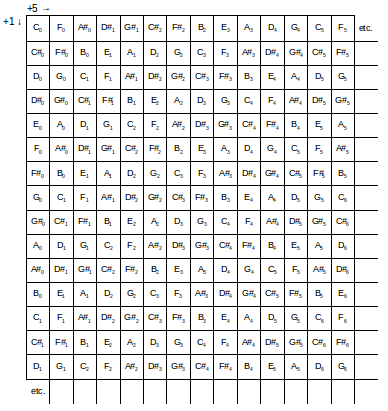
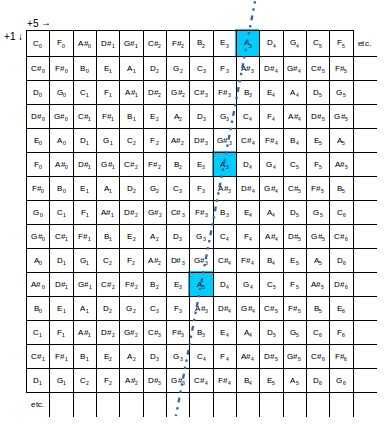
diag cycles intro musaic

diff --git a/pages/musaic/musaic_repr_dim2.md b/pages/musaic/musaic_repr_dim2.md
@@ -33,23 +33,23 @@ A angular sector forms a two-dimensional array (DIS), Below, we choose as origin
 
 
 {% include image.html file='musaic/grilleCreuseVide.png'  alt='matrix without labels (1,5)' caption='matrix DIS(1,5) without labels ' %}
-{% include image.html file='musaic/grilleEmptyETC.png'  alt='matrix (1,5)' caption='matrix (1,5) as pavement' %}
+{% include image.html file='musaic/grilleEmptyETC.png'  alt='DIS(1,5)' caption='DIS(1,5) as pavement<br/>(with unison axe on A3)' %}
 
 This space can be considered as a *musical keyboard*. Like keyboard of piano, let us emphasize the notes of diatonic scale.
 
-{% include image.html file='musaic/grilleDiatonicETC.png' alt='C-diatonic matrix (1,5)' caption='C-diatonic matrix DIS(1,5)' %}
+{% include image.html file='musaic/grilleDiatonicETC.png' alt='C-diatonic DIS(1,5)' caption='C-diatonic DIS(1,5)<br/>{C, D, E, F, G, A, B}' %}
 
 ## Diatonic shape in DIS(1,5)
 
 Let's take a look at some others diatonic tonalities :
 
-{% include image.html file='musaic/cdiatonic.png' alt='C-diatonic matrix (1,5)' caption='C-diatonic DIS(1,5)' %}
+{% include image.html file='musaic/cdiatonic.png' alt='C-diatonic DIS(1,5)' caption='C-diatonic DIS(1,5)<br/>{C, D, E, F, G, A, B}' %}
 
-{% include image.html file='musaic/csharpdiatonic.png' alt='C#-diatonic matrix (1,5)' caption='C#-diatonic DIS(1,5)' %}
+{% include image.html file='musaic/csharpdiatonic.png' alt='C#-diatonic DIS(1,5)' caption='C#-diatonic DIS(1,5)<br/>{C#, D#, E#, F#, G#, A#, B#}' %}
 
-{% include image.html file='musaic/fdiatonic.png' alt='F-diatonic matrix (1,5)' caption='F-diatonic DIS(1,5)' %}
+{% include image.html file='musaic/fdiatonic.png' alt='F-diatonic DIS(1,5)' caption='F-diatonic DIS(1,5)<br/>{C, D, E, F, G, A, Bb}' %}
 
-{% include image.html file='musaic/fdiatonic-01.png' alt='F-diatonic Pitch Class  matrix (1,5)' caption='F-diatonic Pitch Class matrix (1,5)' %}
+{% include image.html file='musaic/fdiatonic-01.png' alt='F-diatonic Pitch Class  DIS(1,5)' caption='F-diatonic Pitch Class DIS(1,5)<br/>{0, 2, 4, 5, 7, 9, 10}' %}
 
 As you can see, in the latest figure, the PCS notation allows a more aerated grid. 
 
@@ -66,12 +66,12 @@ Would you recognize the diatonic forms ? :
 {% include image.html file='musaic/exo1-5_Musaique_Matrix.png' alt=' ? ' caption='5' %}
 {% include image.html file='musaic/exo1-6_Musaique_Matrix.png' alt=' ? ' caption='6' %}
 
-... We think you did. There are four : 1, 2, 3 and 6. The drawing you recognized is as follows:
+... We think you did. There are four : 1, 2, 3 and 6. The drawing you recognized is as follows (central figure):
 
-{% include image.html file='musaic/exo1_sameShapeMusaique_Matrix.png' alt='diatonic form' caption='Diatonic form in DIS(1,5)' %}
-{% include image.html file='musaic/exo1_sameCircleShapMusaique_Matrix.png' alt='diatonic circle form' caption='12 Diatonic scales in circle' %}
+{% include image.html file='musaic/exo1_sameShapeMusaique_Matrix.png' alt='diatonic form' caption='Diatonic form in DIS(1,5)<br/>(12 transpositions)' %}
+{% include image.html file='musaic/exo1_sameCircleShapMusaique_Matrix.png' alt='diatonic circle form' caption='12 Diatonic scales in circle<br/>(12 transpositions)' %}
 
-So, diatonic shape are this type in DIS(1,5):
+So, diatonic shape in DIS(1,5) is :
 {% include image.html file='musaic/clip_0_2_4_5_7_9_10_Musaique_Matrix.png' alt='diatonic form' caption='Diatonic form in DIS(1,5)' %}
 
 **But how many "type of shape" are they ?**

diff --git a/pages/musaic/musaic_12temperament.md b/pages/musaic/musaic_12temperament.md
@@ -1,5 +1,5 @@
 ---
-title: Twelve tone equal temperament
+title: Elements of 12-ET
 keywords: musaic 88musaics
 summary: "This is just a sample topic..."
 sidebar: musaic_sidebar
@@ -13,6 +13,22 @@ folder: musaic
 This study falls within the simplified framework of the [12 equal temperament](https://en.wikipedia.org/wiki/Equal_temperament) (which divides the octave into twelve "equal" parts)
 
 Nothing new, is the case of the main musical instruments with prepared notes (fretted instruments, piano, synthesizer, ...)
+
+
+## Generators of 12
+
+Chromatic scale can be generated in 4 ways (4 integers where are prime form with 12):
+
+  - step **1** : C0, D0, D#, E0, F0, F#0, G0, G#0, A0, A#0, B0, C1, C#1, etc.
+    * Case of string instrument,  piano keyboard
+  - step **5** : C0, F0, Bb0, Eb1, Ab1, Db2, Gb2, B2, E3, A3, D4, G4, C5, F5, etc. (rem : Bb ~ A# ~ Cbb ...)
+    * Conjugated with the first (step 1),  case of string instruments tuning in fourths (guitar, bass, bajosexto, ...)
+  - step **7** : C0, G0, D1, A1, E2, B2, F#3, C#4,  G#4, D#5, A#5, F6, C7, G7, etc.
+    * Conjugated with the first (step 1),  case of string instruments tuning in firths (mandolin, violin, cello, ...)
+  - step **11** : C0, B0, A#1, A2, G#3, G4, F#5, F6, E7, D#8, D9, C#10, C11, B11, etc.   
+    * ? no case ?
+
+{% include image.html file='musaic/alpha-gamma.png' alt='cycles-1-5-7-11' caption='cycles-1-5-7-11' %}
 
 
 ## Enharmonic equivalence
@@ -34,21 +50,6 @@ For example, there are different sounds such as C4, C5, C6, but only one equival
 It is well known by the musician for the notation of chords: CMaj7 designates all the chords based on a structure (4, 3, 3, 2) ie 3rd maj, fifth right and seventh minor with a Cx as root.
 
 
-## Generators of 12
-
-This study is within the framework of the system that divides octave into 12 equals chromatics intervals (twelve tone equals temperament).
-
-Chromatic scale can be generated in 4 ways (4 integers where are prime form with 12):
-
-  - step **1** : C0, D0, D#, E0, F0, F#0, G0, G#0, A0, A#0, B0, C1, C#1, etc.
-    * Case of string instrument,  piano keyboard
-  - step **5** : C0, F0, Bb0, Eb1, Ab1, Db2, Gb2, B2, E3, A3, D4, G4, C5, F5, etc. (rem : Bb ~ A# ~ Cbb ...)
-    * Conjugated with the first (step 1),  case of string instruments tuning in fourths (guitar, bass, bajosexto, ...)
-  - step **7** : C0, G0, D1, A1, E2, B2, F#3, C#4,  G#4, D#5, A#5, F6, C7, G7, etc.
-    * Conjugated with the first (step 1),  case of string instruments tuning in firths (mandolin, violin, cello, ...)
-  - step **11** : C0, B0, A#1, A2, G#3, G4, F#5, F6, E7, D#8, D9, C#10, C11, B11, etc.   
-
-
 ## P vs PC vs PCS
 
 
@@ -56,7 +57,7 @@ Chromatic scale can be generated in 4 ways (4 integers where are prime form with
 
   * Pitch Class (**PC**) refers to height class, octave equivalence is applied (example : `A`)
 
-  * Pitch Class Set (**PCS**) refers to a set of heights classes, without duplicate element (example : `{0, 3, 7}`)
+  * Pitch Class Set (**PCS**) refers to a set of ordered heights classes, without duplicate element (example : `{C, E, G}`)
 
 <br/>
 <a href="musaic_12representation.html" type="button">Next (representation) ></a>

diff --git a/pages/musaic/musaic_overview.md b/pages/musaic/musaic_overview.md
@@ -7,7 +7,7 @@ permalink: musaic_overview.html
 folder: musaic
 ---
 
-### Which scope is ?
+### Which scope ?
 
 The interest in the 88 musaics places us at the intersection of several disciplines: harmony, mathematics, didactics, instrumental play (here in particular, but not only, for the practice of harmony on the guitar tuned in fourths)
 
